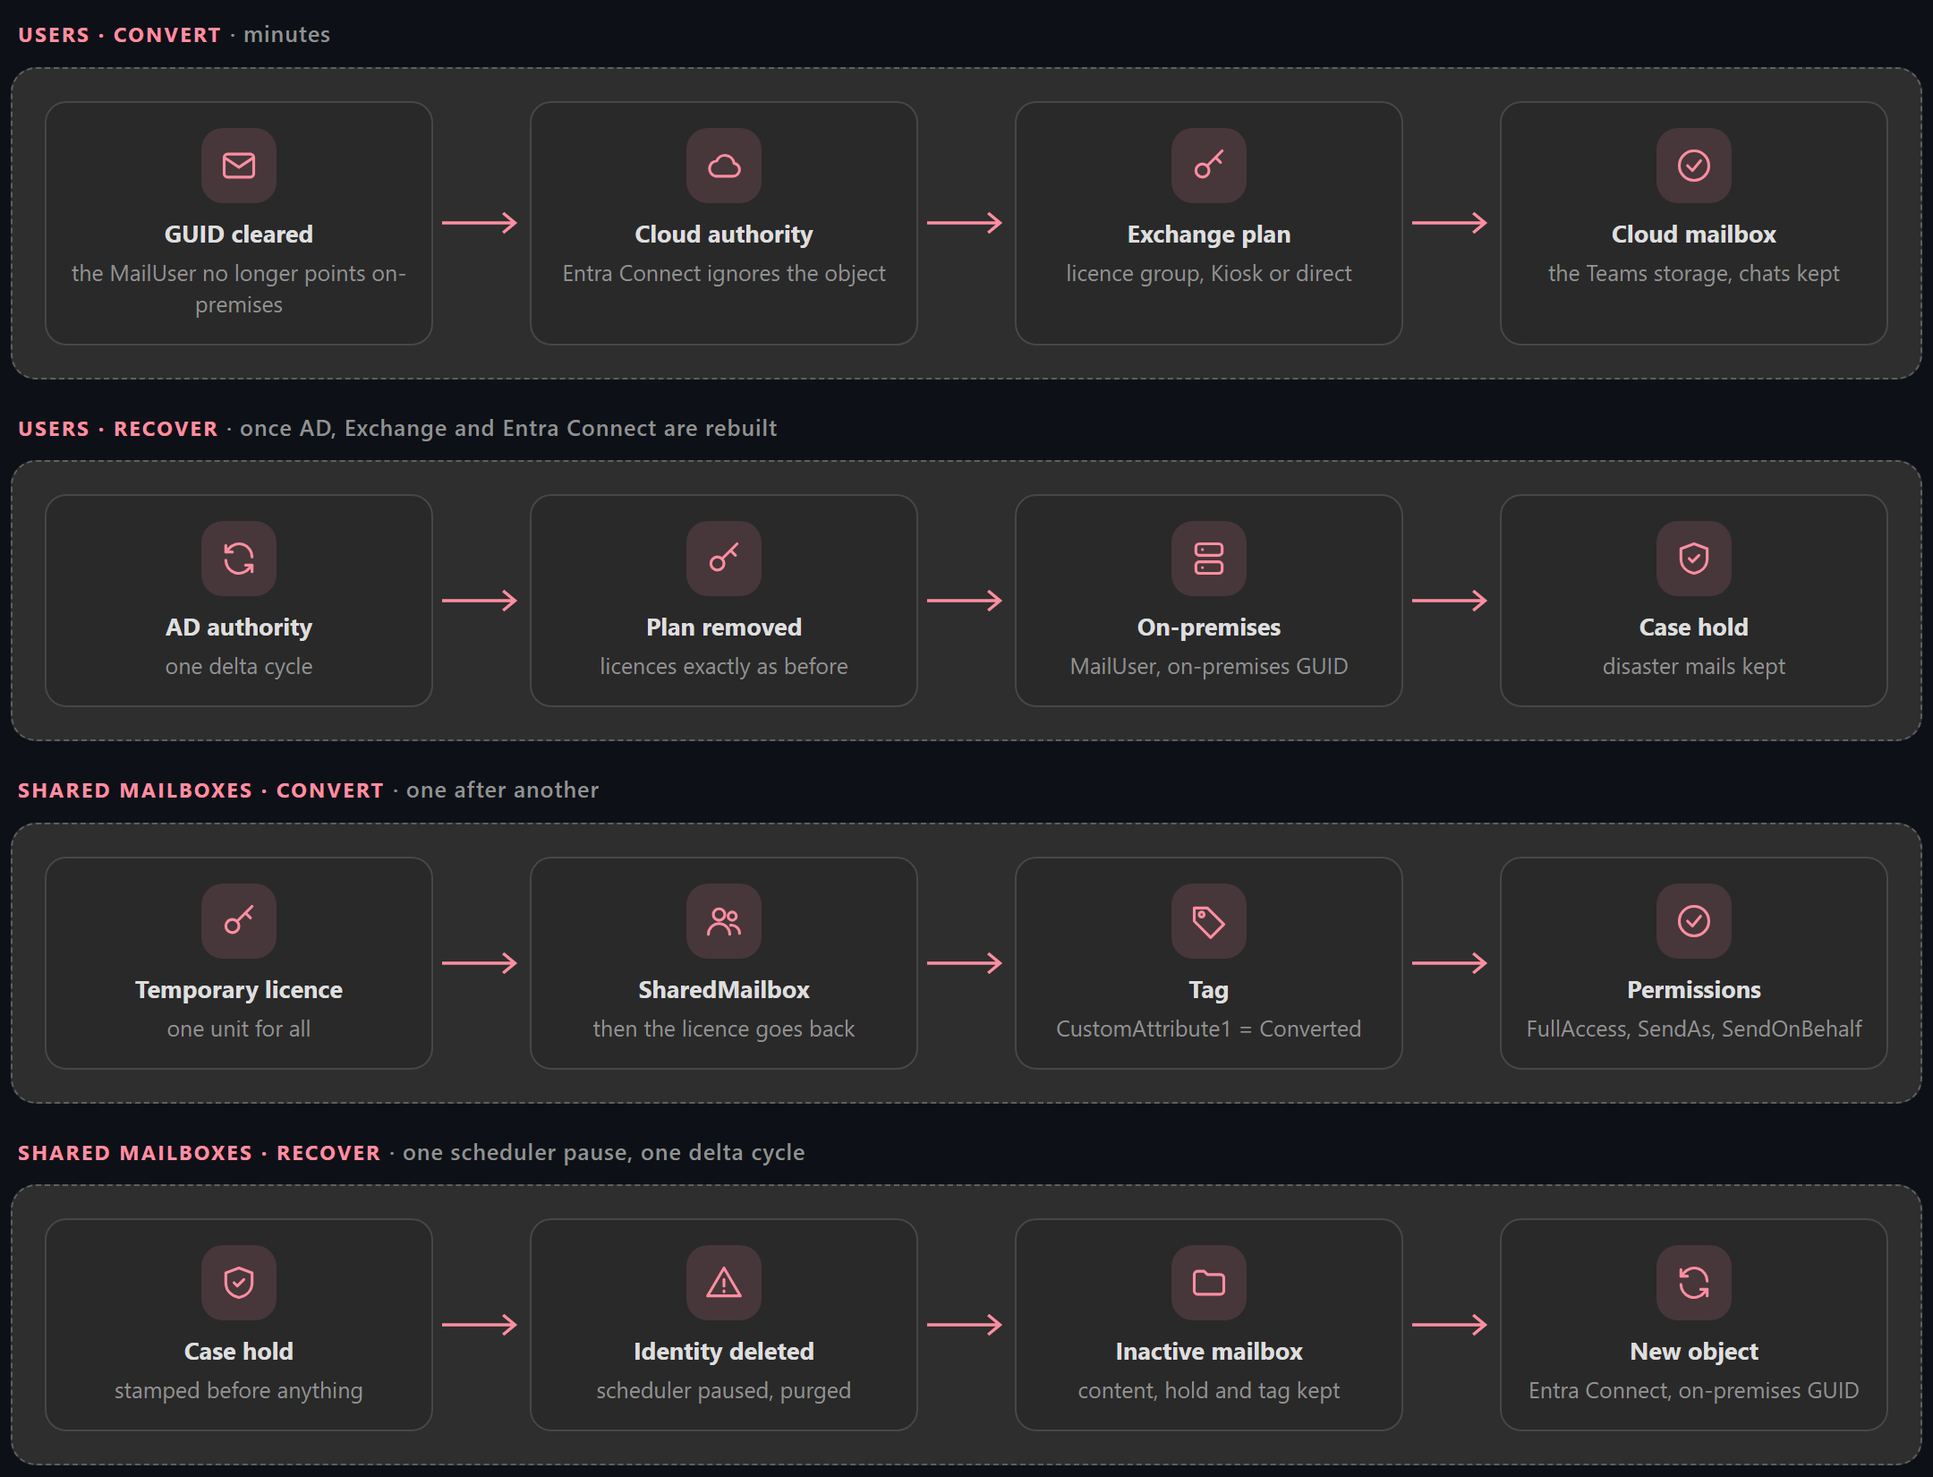
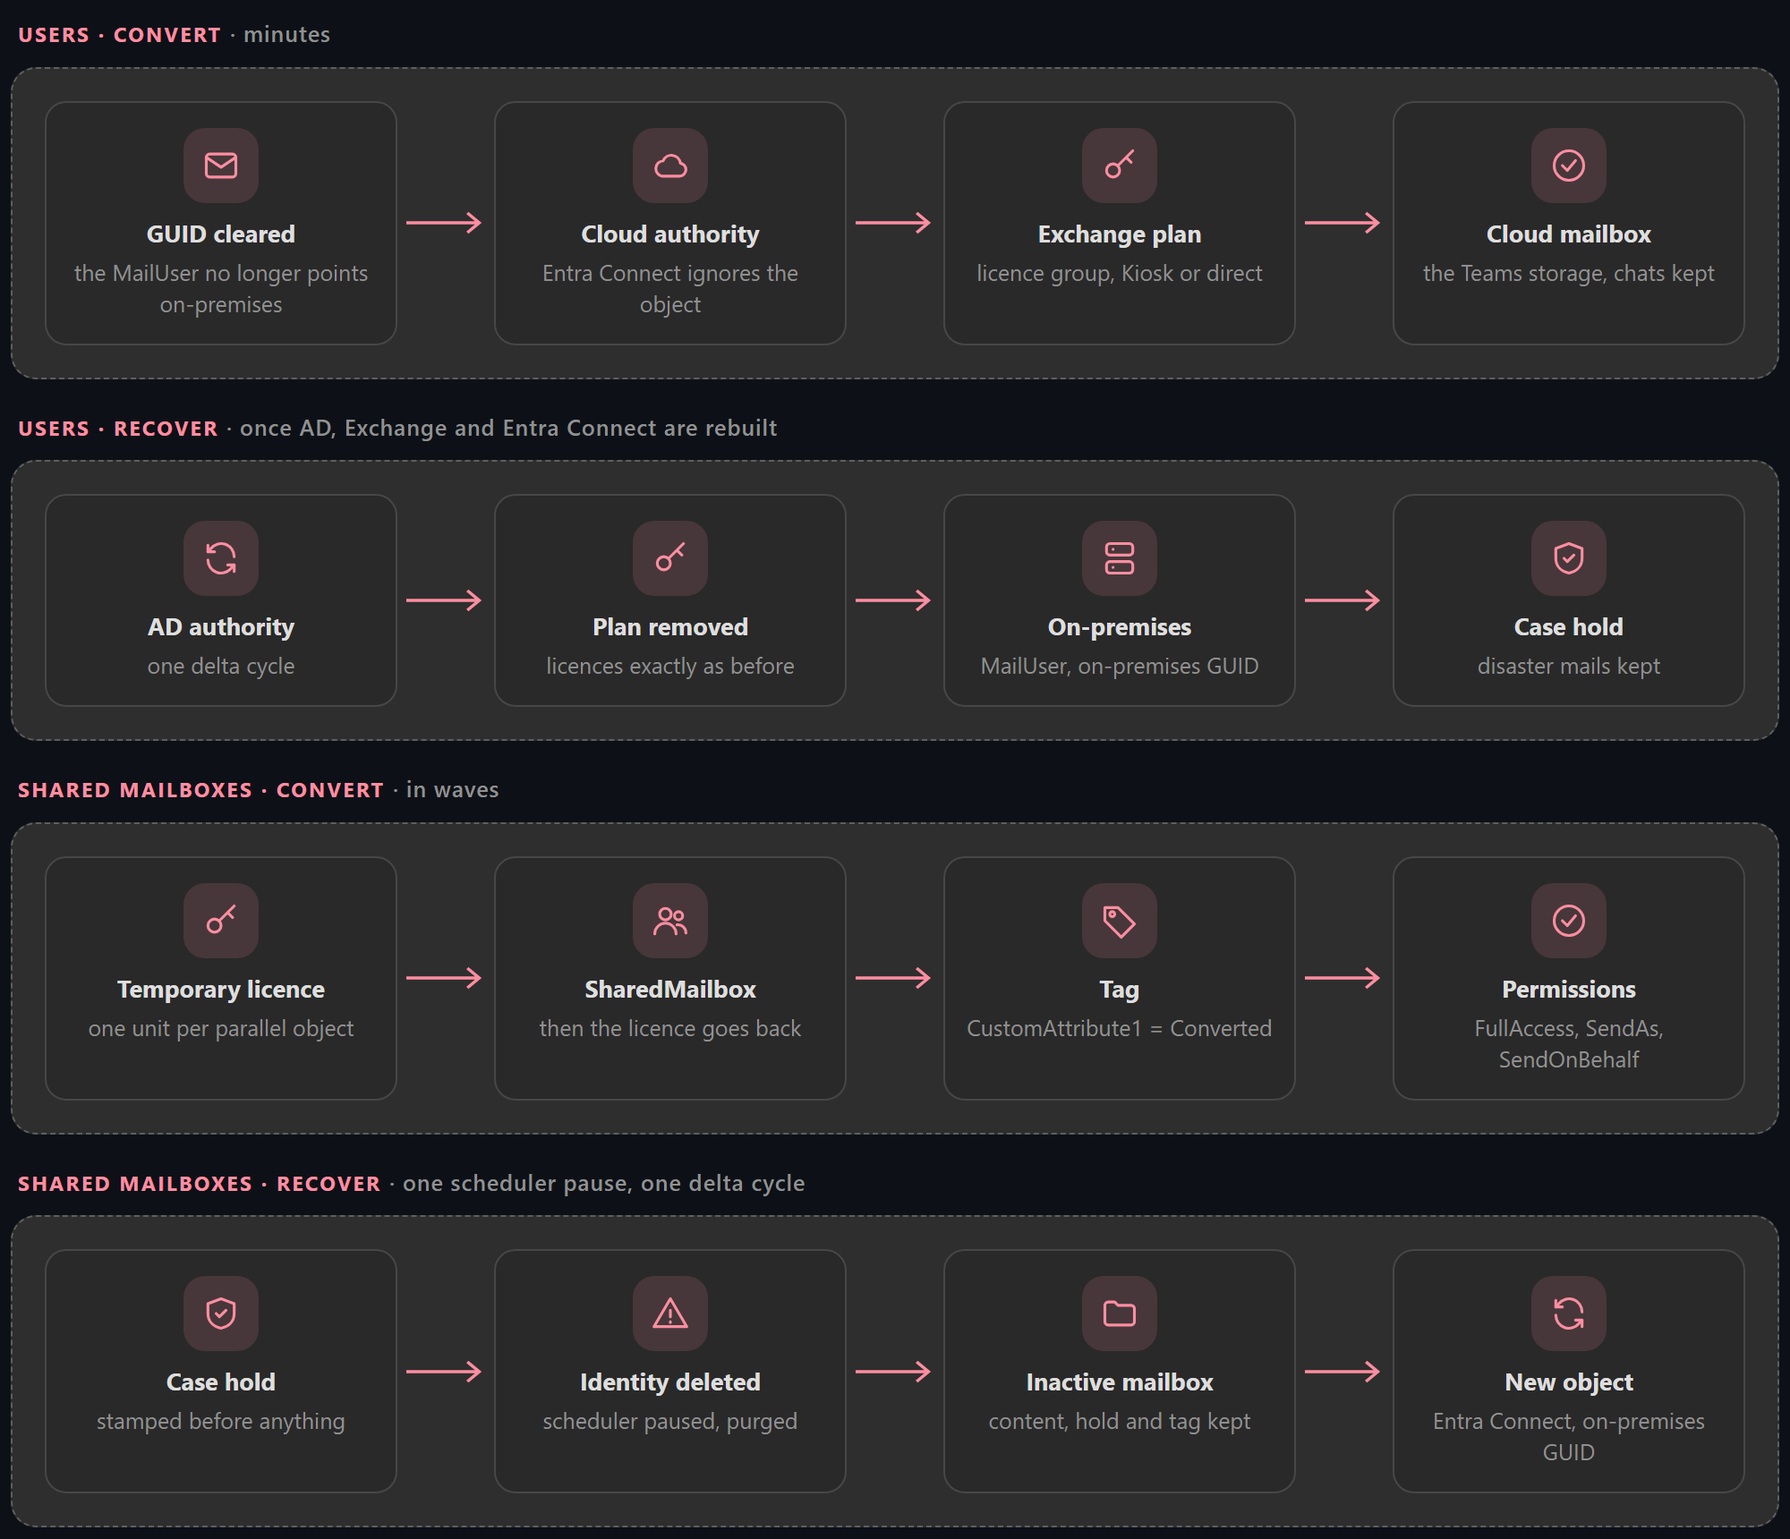
Align repository presentation with PRA Remote Mailbox

diff --git a/README.md b/README.md
@@ -1,14 +1,15 @@
 <p align="center">
   <picture>
     <source media="(prefers-color-scheme: dark)" srcset="docs/images/readme-banner-dark.png">
-    <img alt="PRA Cloud Mailbox: when Active Directory, Exchange and Entra Connect are lost, gives every user and shared mailbox a mailbox in Exchange Online on its existing identity - the Teams storage becomes the mailbox - and rolls everything back when the infrastructure is rebuilt, without losing a mail" src="docs/images/readme-banner-light.png">
+    <img alt="PRA Cloud Mailbox: scenario 2 disaster recovery from the cloud, with four actions and one journaled batch; user/shared mail is protected, native-resource bookings require export before Recover" src="docs/images/readme-banner-light.png">
   </picture>
 </p>
 
 <p align="center">
-  <a href="#why"><b>Why</b></a> &nbsp;&middot;&nbsp;
   <a href="#how-it-works"><b>How it works</b></a> &nbsp;&middot;&nbsp;
   <a href="#convert-and-recover"><b>Convert and Recover</b></a> &nbsp;&middot;&nbsp;
+  <a href="#shared-mailbox-permissions"><b>Shared mailboxes</b></a> &nbsp;&middot;&nbsp;
+  <a href="#wpf-window"><b>WPF window</b></a> &nbsp;&middot;&nbsp;
   <a href="#reports"><b>Reports</b></a> &nbsp;&middot;&nbsp;
   <a href="#quick-start"><b>Quick start</b></a> &nbsp;&middot;&nbsp;
   <a href="docs/PraCloudMailbox-UserGuide.md"><b>User guide</b></a> &nbsp;&middot;&nbsp;
@@ -32,16 +33,18 @@ In a hybrid organisation, a mailbox hosted on-premises is only a *mail user* for
 
 Done by hand, giving each user a cloud mailbox means changing the source of authority of every identity, licensing it in the right order, recreating the shared mailboxes with their permissions — which can no longer be read on-premises — and, months later, undoing all of it **without deleting the mails received in the cloud**. This tool collects what it needs before the disaster, then does the conversion and the rollback in the order validated in a lab, verified at each step and journaled.
 
+**Author:** Nicolas Fabert · **Version:** 1.3.0 (unreleased; [changelog](CHANGELOG.md)).
+
 <picture>
   <source media="(prefers-color-scheme: dark)" srcset="docs/images/readme-principles-dark.png">
-  <img alt="Design principles: collected before the disaster, preview first then one confirmation, reversible and journaled, no mail lost" src="docs/images/readme-principles-light.png">
+  <img alt="Design principles: collected before the disaster, preview first, journaled recovery, user/shared mail protected; unprotected native-resource bookings are not preserved" src="docs/images/readme-principles-light.png">
 </picture>
 
 ## How it works
 
 <picture>
   <source media="(prefers-color-scheme: dark)" srcset="docs/images/readme-how-it-works-dark.png">
-  <img alt="Collect on an Exchange server every day, copy the SQLite file, Check on the cloud admin server, Convert at the disaster with a batch ID, Recover once the infrastructure is rebuilt; four actions: Collect, Check, Convert, Recover" src="docs/images/readme-how-it-works-light.png">
+  <img alt="One configuration and one entry script: Exchange snapshot, cloud operations, journal and reports; four actions: Collect, Check, Convert, Recover" src="docs/images/readme-how-it-works-light.png">
 </picture>
 
 - **Collected before.** `Collect` runs every day on an Exchange server (Windows PowerShell 5.1) and stores the mailboxes, their GUIDs and X500 addresses, and the **permissions of the shared mailboxes** (FullAccess with AutoMapping, SendAs, SendOnBehalf, groups expanded) in one SQLite file.
@@ -49,26 +52,30 @@ Done by hand, giving each user a cloud mailbox means changing the source of auth
 - **Preview by default, one batch ID.** Without `-Mode Apply` nothing is changed. Apply asks one confirmation, journals the original state of every object, and prints the batch ID with the exact next command.
 - **Back without losing a mail.** `Recover -Batch <ID>` gives the identities back to AD in waves (one scheduler pause and one synchronisation per wave, not per object); the users' cloud data stays under an **eDiscovery case hold** (several policies in the same case once 1,000 mailboxes is reached), the cloud shared mailboxes become **inactive mailboxes**, and every licence is put back exactly as it was.
 
+## WPF window
+
+Open the window with `pwsh -File .\Invoke-PraCloudMailbox.ps1 -Gui` on the cloud admin server, or `powershell.exe -File .\Invoke-PraCloudMailbox.ps1 -Gui` on the Exchange server. PowerShell 7.5+ uses the Fluent theme; Windows PowerShell 5.1 uses compatible WPF controls.
+
+The window starts no operation automatically. Each action runs the existing engine in a separate process: **Windows PowerShell 5.1 for Collect, PowerShell 7 for cloud actions**. Select a snapshot or batch, filter the objects and tick a wave. Preview is mandatory before Apply, which requires typing the action name; changed selections invalidate Preview.
+
+The activity panel shows progress, results, logs/reports and the next command. Copy the snapshot and journal between the two computers; the window does not transfer them. See the [user guide, chapter 7](docs/PraCloudMailbox-UserGuide.md#7-the-window).
+
+![WPF window - the four actions, selection, batches and activity](docs/images/pra-gui-overview.png)
+
 ## Convert and Recover
-
-**Development addition (not in the published 1.2.0):** native rooms and equipment excluded from Entra synchronisation have a separate opt-in path, `Scope.ResourceMode = 'CloudResource'` with `Scope.ConvertRooms = $true`. Collect captures descriptive/location properties, room-list identities/memberships, booking and invitation delivery controls. Convert first creates missing cloud RoomLists, then actual resource mailboxes with disabled sign-in and finally their room-list memberships, without importing general mailbox permissions or old contents. Shared lists are deduplicated and creation is journaled for resume; compatible cloud-only lists are reused without replacing settings/members. New journals record `protectionMode = 'None'`: standard resource mailboxes [up to 50 GB need no licence](https://learn.microsoft.com/en-us/office365/servicedescriptions/exchange-online-service-description/exchange-online-limits#mailbox-storage-limits), licensing group, licensing usageLocation or case hold. Native-only actions need no enterprise SKU/capacity or Compliance connection.
-
-**Native Recover is destructive:** there is **no hold, no inactive copy, and cloud-created reservations/messages are NOT preserved or merged**. Export/reconcile first. `Resources.AllowUnprotectedDeletion` defaults to `$false` and must be explicitly acknowledged alongside verified on-premises routing before deletion. Recover deletes only the journal-owned identity and verifies exact deleted/soft-deleted state. Only its freshly proven, journal-owned resource tombstone (both immutable IDs, exact resource type and valid `WhenSoftDeleted`) is excluded from the routing collision check; its retained proxies alone do not automatically block a contact attempt. Foreign collisions remain Pending; Exchange creation/configuration uniqueness errors remain explicit errors in a Partial batch, never Done. The tombstone is untouched: no purge, proxy removal or automatic second deletion. Unexpected licences or active/organisation holds are refused, never removed. RoomLists are retained. Old native journals without a mode retain the original licensed `CaseHold`/inactive-copy contract; they are never downgraded. Users, shared mailboxes and synced resources are unchanged. This new path still needs a tenant-specific live cycle before production use.
-
-**Native provisioning fails closed:** immediately after recording creation IDs, Convert disables booking (`AutomateProcessing = None`, all booking/request flags false and trustee arrays empty) and hides the unfinished resource. Source booking and visibility are restored only after descriptive properties, work hours, delivery controls, immutable identity, sign-in and collision checks, and required memberships are verified. A failure keeps the batch Partial and attempts verified restrictive cleanup; cleanup failures are explicitly reported, not treated as success. Resume the same batch; already Done resources and unowned objects are not relocked. A failed `Set-User` is not bypassed using Graph metadata. Conflicting duplicate Graph results still block conversion, including possible default/advanced-index propagation discrepancies; wait/investigate rather than relaxing the guard.
-
-Native descriptive writes use [`Set-User -Confirm:$false`](https://learn.microsoft.com/en-us/powershell/module/exchangepowershell/set-user?view=exchange-ps#-confirm) to skip its built-in pause in unattended sessions, without `-Force`. All eight captured properties, including full Notes, remain mandatory and are verified with `Get-User`.
-
-Deletion progress is durable before the request. A restored identity or an ambiguous/interrupted deletion response never triggers an automatic second DELETE; wait for exact deletion evidence or investigate the restore. Both native-resource consents are reset to `$false` in packaged configuration.
-
-Cloud connections require an unconnected PowerShell process. Before authentication, the tool sets and verifies the supported SDK [`MaxRetry = 0`](https://learn.microsoft.com/en-us/powershell/module/microsoft.graph.authentication/set-mgrequestcontext?view=graph-powershell-1.0); only its own wrapper retries ordinary transient failures (up to five attempts). Unprotected DELETE never retries an ambiguous transient response, including HTTP 503/504. Existing SDK sessions or changed/unverifiable retry settings are refused rather than resetting an authenticated cached client. Previous retry settings are restored only after disconnect. SDK authentication-challenge and redirect handling remain outside this transient retry setting. Offline installed-SDK tests use the SDK's real middleware and an in-memory final HTTP handler, without authentication or network traffic.
 
 <picture>
   <source media="(prefers-color-scheme: dark)" srcset="docs/images/readme-flows-dark.png">
   <img alt="Users, Convert: GUID cleared, cloud authority, Exchange plan, cloud mailbox. Users, Recover: AD authority, plan removed, on-premises, case hold. Shared mailboxes, Convert: temporary licence, SharedMailbox, tag, permissions. Shared mailboxes, Recover: case hold, identity deleted, inactive mailbox, new object" src="docs/images/readme-flows-light.png">
 </picture>
 
-The states of a mailbox through the cycle:
+| Object | Convert | Recover |
+|---|---|---|
+| User | Cloud authority, Exchange plan, Teams storage promoted on the same identity | AD authority and original licences restored; cloud data under a case hold |
+| Shared mailbox | Temporary licence per parallel object, SharedMailbox type, collected permissions | Held cloud mailbox becomes inactive; Entra Connect recreates the on-premises identity |
+| Native room/equipment (opt-in) | New cloud-only resource, required RoomLists, booking settings; no contents or general ACLs imported | Owned resource deleted without hold; routing contact to the restored on-premises mailbox |
+
+The states of user/shared mailboxes through the cycle:
 
 <picture>
   <source media="(prefers-color-scheme: dark)" srcset="docs/images/readme-states-dark.png">
@@ -76,13 +83,29 @@ The states of a mailbox through the cycle:
 </picture>
 
 > [!CAUTION]
-> Convert and Recover change production objects in Entra ID and Exchange Online. Lab coverage and its limits, including the native-resource cycle, are described in developer guide appendix B. Run the preview, read the plan, and test the whole cycle with your own tenant before relying on it in a real disaster.
+> The on-premises mailbox contents are **not migrated**. User/shared cloud data is protected during Recover. New native resources follow a separate **destructive** lifecycle: no hold, no inactive copy, and cloud-created bookings/messages are **not preserved or merged**. Export/reconcile them before Recover.
 
-## The window
+### Native rooms and equipment
 
-<p align="center"><a href="docs/images/pra-gui-overview.png"><img alt="The window: the next step, the configuration, the last snapshot and Check, the batches, this computer, and the activity of the last run with its batch ID" src="docs/images/pra-gui-overview.png" width="900"></a></p>
+<picture>
+  <source media="(prefers-color-scheme: dark)" srcset="docs/images/readme-resources-dark.png">
+  <img alt="Native resource continuity: collect metadata and room lists, create real cloud resources, export/reconcile cloud bookings, then recover through owned routing contacts without hold or content merge" src="docs/images/readme-resources-light.png">
+</picture>
 
-`.\Invoke-PraCloudMailbox.ps1 -Gui` (Windows PowerShell 5.1 or PowerShell 7) opens the same four actions in a window: the next step at a glance, one table of objects per page (filter, waves of ticked objects), the activity of the run step by step. Each button runs the command line in its own PowerShell, with its log, journal and report; *Convert…* and *Recover…* are enabled only after a preview of the same selection, and ask for a typed confirmation.
+**1.3.0 development addition, not in release 1.2.0.** For rooms/equipment excluded from Entra synchronisation, enable `Scope.ResourceMode = 'CloudResource'` and `Scope.ConvertRooms = $true`, then run a **new Collect**. Convert creates actual RoomMailbox/EquipmentMailbox resources with disabled sign-in and verified booking/delivery controls. Standard resources up to 50 GB require no mailbox licence; unfinished resources remain hidden with booking disabled.
+
+Recover requires **both** verified on-premises routing (`Resources.OnPremisesReady`) and explicit loss acknowledgement (`Resources.AllowUnprotectedDeletion`); both ship as `$false`. Ownership, collisions, unexpected licences or holds block the operation. No purge, proxy removal or automatic second deletion; old protected journals keep their original contract, and RoomLists are retained.
+
+Cloud actions require a **fresh, unconnected PowerShell process** so SDK retries cannot silently repeat an unprotected deletion. Setup, recovery and transport details: [user guide §1.2](docs/PraCloudMailbox-UserGuide.md#12-native-rooms-and-equipment-excluded-from-synchronisation), [developer guide §6.2](docs/PraCloudMailbox-Guide.md#62-unsynchronised-native-resource-lifecycle-development). Lab coverage and remaining client-discovery/delivery limits: [appendix B](docs/PraCloudMailbox-Guide.md#appendix-b---lab-validation). Test the whole cycle in your tenant before production.
+
+## Shared mailbox permissions
+
+<picture>
+  <source media="(prefers-color-scheme: dark)" srcset="docs/images/readme-permissions-dark.png">
+  <img alt="Shared mailbox permissions: collected from Exchange before the disaster, groups expanded to users, saved in SQLite, granted and verified in Exchange Online; FullAccess with AutoMapping, SendAs and SendOnBehalf" src="docs/images/readme-permissions-light.png">
+</picture>
+
+Unlike scenario 1, Active Directory is also unavailable during the disaster: permissions must be **collected beforehand** from Exchange. The snapshot keeps FullAccess with AutoMapping, SendAs and SendOnBehalf, with group trustees expanded to users. Convert grants and reads back the collected permissions in Exchange Online; see the [developer guide, chapter 9](docs/PraCloudMailbox-Guide.md#9-convert). General mailbox and calendar-folder ACLs are **not imported for native resources**.
 
 ## Reports
 
@@ -140,7 +163,11 @@ One command per moment — every day, every week, the disaster, the rollback, th
 | **[User guide](docs/PraCloudMailbox-UserGuide.md)** | For the people who run the tool: **prerequisites** and **one command per moment** — collect every day, check every week, convert at the disaster, recover once the infrastructure is rebuilt, the days after — and how to read the results. |
 | **[Developer guide](docs/PraCloudMailbox-Guide.md)** | Everything else: the scenario, the procedure validated in the lab and the states of a mailbox, the app registration, the case hold and the retention policy, the configuration in detail, each action step by step, the Check codes, the reports, the architecture, the databases, the tests, how to evolve the tool, troubleshooting and the lab results. |
 
-Both guides also exist as a single HTML file with a light and a dark theme (`docs/PraCloudMailbox-UserGuide.html`, `docs/PraCloudMailbox-Guide.html`): download them and open them locally, or use the copies in the release zip.
+Both guides also exist as a single HTML file with a light and a dark theme (`docs/PraCloudMailbox-UserGuide.html`, `docs/PraCloudMailbox-Guide.html`): download them and open them locally, or use the copies in the release zip. `tools\Build-Documentation.ps1` and `tools\New-ReadmeImages.ps1` rebuild the guides and the themed README graphics.
+
+## Security
+
+Obtain the tool from this repository and verify the owner's Authenticode signatures and timestamps on the seven signed PowerShell files. Editable configuration, DLLs and other assets are not covered by those signatures. Release attestations, when present, prove ZIP provenance, not the safety of an operation. Report sensitive findings **privately** as described in [SECURITY.md](SECURITY.md); contribution and publication rules are in [AGENTS.md](AGENTS.md).
 
 ## Tests
 
